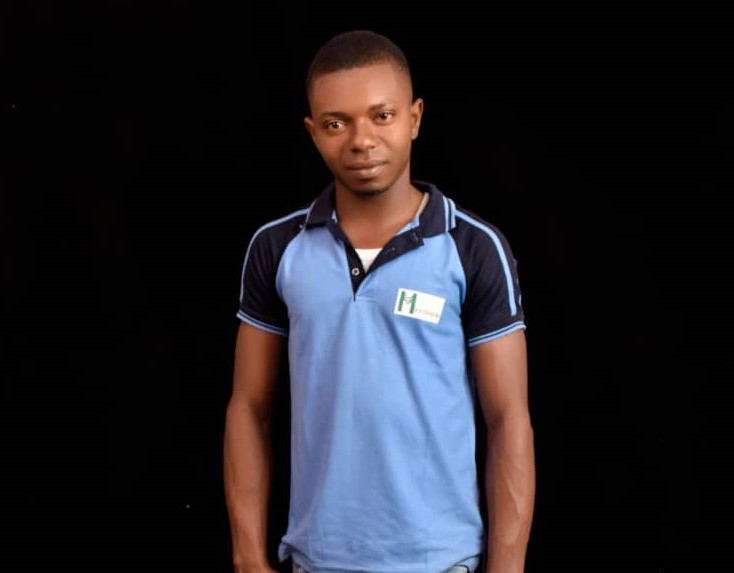
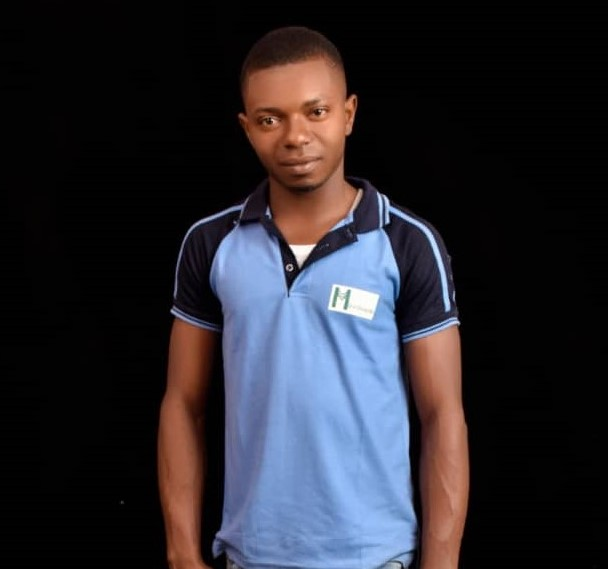
alright

Changed region(s): [[0.25, 0.0299, 0.7812, 1.0], [0.5625, 0.9561, 0.5938, 0.9859]]

diff --git a/index.html b/index.html
@@ -25,7 +25,7 @@
     </section>
     <section id="about">
         <h2>About Us</h2>
-        <p> Jude constructions only deal with metal works. Designing, modeling, welding, testing and fabrication we bring your ideas, desingns to life. </p>
+        <p> Jude constructions only deal with metal works. Designing, modeling, welding, testing and fabrication we bring your ideas, & designs to life. </p>
     </section>
     <section id="services">
         <h2>Our Services</h2>
@@ -51,7 +51,7 @@
                 <p><em>- Mr John</em></p>
             </div>
             <div class="testimonial">
-                <p>"My gate looked so nice! I recomend Jude constructions"</p>
+                <p>"My gate looked so nice! I recommend Jude constructions"</p>
                 <p><em>- Chidinma Uzor</em></p>
             </div>
             <div class="testimonial">
@@ -68,17 +68,17 @@
     <section id="team">
         <h2>Our Team</h2>
         <div class="team-member">
-            <img src="works/ceo.jpg" alt="Team Member 1">
+            <div><img src="works/ceo.jpg" alt="Team Member 1"></div>
             <h3>Jude Nnabudo</h3>
             <p>CEO</p>
         </div>
         <div class="team-member">
-            <img src="team2.jpg" alt="Team Member 2">
+           <div> <img src="works/hhh (1).jpg" alt="Team Member 2"></div>
              <h3>Malachy C. Ele </h3>
             <p>Manager</p>
         </div>
         <div class="team-member">
-            <img src="works/john.jpg" alt="Team Member 2">
+            <div><img src="works/john.jpg" alt="Team Member 2"></div>
             <h3>Okoro John C. </h3>
             <p>Fabricator</p>
         </div>

diff --git a/styles.css b/styles.css
@@ -47,6 +47,8 @@ section {
     height: 100%;
     color: aliceblue;
     display: inline-block;
+    text-decoration: overline;
+    text-decoration-color: rgb(233, 201, 201);
 }
 /* Style the slider */
 .slider {
@@ -106,16 +108,25 @@ section {
     background-color: #e0ddde;
     border: 4px solid linen;
     border-radius: 10px;
-
+    display: flex;
+    justify-content: center;
+    flex-direction: column;
 }
 .team-member img{
-    width: 70%;
-    height: 60%;
+    width: 100%;
+    height: 100%;
     object-fit: cover;
     clip-path: polygon(0% 0%, 100% 0%, 100% 70%, 0% 100%);
     border-radius: 60px;
+    overflow: hidden;
 }
 
+.team-member div{
+    align-self: center;
+    width: 50%;
+    height: 50%;
+   
+}
 /* Additional styles for the "Contact" section */
 #contact {
     padding: 40px;
